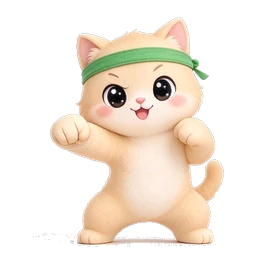
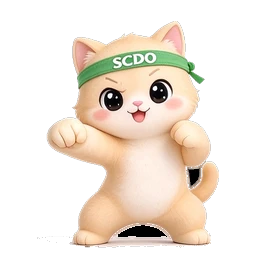
3.0.5: final AI小貓 frames — 27 (pose 1-9 with SCDO headband, full tai chi form 1-9, full Wing Chun set 1-9) in that play order; sync script takes all three sets; release-note line (華語 + English)

Changed region(s): [[0.1875, 0.0625, 0.875, 0.9688], [0.4688, 0.75, 0.5, 0.7812], [0.1562, 0.9062, 0.1875, 0.9375]]

diff --git a/src/js/i18n112.js b/src/js/i18n112.js
@@ -203,7 +203,7 @@ window.I18N112 = {
     aboutHashSrc_installer: '來源：錢包下載並驗證過的安裝檔', aboutHashSrc_manifest: '來源：已簽名的更新資訊', aboutHashSrc_published: '來源：下載頁的 .sha256 檔',
     aboutHashHow: '核對方法：Windows 在命令提示字元執行 certutil -hashfile 安裝檔名稱 SHA256，Mac 執行 shasum -a 256 安裝檔名稱，結果要和上面完全一樣。',
     about: '關於', version: '版本 {v}（2026-10-05）',
-    relNotes: [{"v": "3.0.5", "items": ["右下角的 AI小貓會動了：按鈕裡的小貓換成 68 像素的動畫小貓，每 3 秒換一個功夫、瑜伽或健身動作，換動作時會輕輕彈一下、淡入淡出，平常有呼吸起伏，腳下有淡淡的影子。按一下小貓會先換下一個動作，再打開和以前一樣的 AI小貓視窗。電腦設定成「減少動態效果」時，小貓固定一個動作不會動。", "每一頁最下面多留了空間，捲到底時最後的按鈕和文字不會被 AI小貓擋住。", "3.0.4 已經發布過，所以這一版用新的版本號 3.0.5。"]}, {"v": "3.0.4", "items": ["首頁換成新的樣子：最上面一張大卡片寫「今天賺了」和「一共賺了」；下面五張一樣大的白色卡片（Shard0 EVM、Shard1、Shard2、Shard3、Shard4），每張寫出狀態、餘額、同步進度條和其他資料，顯卡溫度用綠、橘、紅色圓點表示（說明寫在卡片上方）。AI小貓平常是右下角的黑色小膠囊，打開後是透明泡泡樣式的視窗，有六個常用動作：建立新地址、轉帳、開始／停止挖礦、修同步、查餘額、設定。", "所有金額用同一種寫法：最多 8 位小數，多的直接捨去（不會四捨五入變多），每三位加逗號，後面寫 SCDO。首頁卡片、帳戶頁、最底下的總餘額、確認視窗和交易紀錄都一樣，計算全部用整數，不會有誤差。", "確認視窗多了一行「合計（金額＋手續費）」。", "轉帳到自己的地址：五條鏈都可以，會先寫清楚「收款地址是你自己，這筆只會扣手續費」，要勾選才能繼續。轉到別的分片的地址和金額 0 仍然不能送出。", "交易紀錄改用 SCDO 區塊瀏覽器的資料，Shard0 EVM 和 Shard1–Shard4 都會列出別人轉進來的幣和挖礦獎勵，不再只有這台電腦送出的轉帳。", "設定 → 關於 和 AI小貓 加上說明與聯絡：官方頻道 t.me/SCDOLabor、社群群組 t.me/SCDOCommunity、客服 Email admin@apeccapital.org。", "這台電腦已經裝過 3.0.3，所以這一版用新的版本號 3.0.4。"]}, {"v": "3.0.3", "items": ["刪掉重複的內容：最底下只留一行「總餘額（Shard0–Shard4 全部合計）」（每個分片的餘額已經在自己的卡片上）；最上面的狀態列只留「今天賺了」和「一共賺了」（挖礦、速度、溫度、同步和節點已經在卡片上）；卡片名稱旁的「挖礦中／沒有在挖礦／正在同步」標籤也拿掉；首頁標題下重複 AI小貓 說明的那一行也拿掉。數字不會再疊在一起，也不會被 AI小貓擋住。", "白色字的綠色按鈕改成比較深的綠色，字比較清楚。", "3.0.2 的一個測試版本已經在這台電腦裝過，所以這一版用新的版本號 3.0.3。"]}, {"v": "3.0.2", "items": ["五條鏈地位相同，不分主次：0x 地址的那條鏈叫「Shard0 EVM」，例如「Shard0 EVM 帳戶」和「Shard0 EVM 顯卡」，跟 Shard1 到 Shard4 的名稱一樣排列。", "新的首頁：「帳戶（Shard0–Shard4）」五張一樣的卡片，依序是 Shard0 EVM、Shard1、Shard2、Shard3、Shard4。每張都寫出餘額、同步進度、挖礦速度、本機已挖到的區塊、顯卡、顯卡溫度、網路和收款地址（可以複製或顯示 QR 碼）。下面是最近交易，最底下固定顯示總餘額和每個分片的合計。", "拿掉分頁列和快捷按鈕列。要做事情請用上方選單（檔案、編輯、檢視、匯款、說明）或右下角的 AI小貓：建立新地址（Shard0–Shard4 任選，Ctrl+N）、匯入錢包（Ctrl+I）、備份（Ctrl+B）、開始挖礦（Ctrl+G）、停止挖礦（Ctrl+Shift+G）、轉帳（Ctrl+T）、匯款（Ctrl+P）。", "AI小貓改成 iPhone 風格的視窗，八個常用動作一按就做。轉帳、匯款和簽名一定先開確認視窗，寫清楚金額、收款人和哪條鏈，要你按「確認」才會送出；匯入私鑰只用隱藏輸入視窗，不會出現在對話或紀錄裡。按「先隱藏小貓」可以收起來，用「說明」→「顯示 AI小貓」叫回來。", "「設定」→「關於」會顯示這個版本的程式版本（commit）。", "會覆蓋安裝 3.0.1、3.0.0 和 2.0.12，帳戶和設定都會保留。"]}, {"v": "3.0.0", "items": ["Shard1–4 和 Shard0 EVM 可以用顯示卡和處理器一起挖，任意組合都可以。挖礦程式用比較低的優先順序執行，視窗才會保持順暢。名稱仍是 SCDO Wallet，會覆蓋安裝 2.0.12。", "每個帳戶卡片的「改名／隱藏／刪除」一列新增「挖礦」和「匯款」，點下去就帶入這個帳戶。", "最上面的狀態列只顯示資料：每一條鏈的同步進度、大約還要多久、挖礦速度、顯卡溫度（用顏色表示冷熱）、今天賺了多少、一共賺了多少、帳戶餘額，以及已連線的節點。按「?」可以看每一項的說明。下面那一列只有按鈕：開始挖礦、前往挖礦頁、匯款，以及全部停止（會先請你確認）。不再有重複的網路選單，Shard1–Shard4 帳戶分頁在最前面。", "新增 AI小貓：角落的小貓圖示，可在設定裡關閉。只在這台電腦上用規則幫忙，可以一鍵挖礦（顯示卡超過 85°C 會停下並說明）、同步停住或沒有同伴時重新啟動節點、回答餘額、引導備份帳戶檔案（不顯示種子），以及把「匯 100 給某人」填進表單。簽名和送出仍要你自己按確認。", "傳送和匯款合併成同一個「匯款」。填地址、已存名稱或匯款收款人，再填數量，錢包自動選路線：0x 或 Shard1–Shard4 地址走對應分片的鏈上轉帳，匯款收款人或法幣數量走匯款閘道。路線只用一行說明。要自己按確認才會簽名或送出。帳戶分頁仍看餘額；卡片和下面的按鈕列各留一個匯款按鈕。原本的傳送按鈕和匯款分頁已移除。"]}, {"v": "2.0.12", "items": ["新增「匯款」：首頁、分頁和選單都有入口；解鎖目前帳戶並簽名登入匯款閘道，只能看自己地址的帳本，別人的地址無法登入；不需要填寫任何身份資料"]}, {"v": "2.0.11", "items": ["挖礦頁文案：沒有顯示卡的黃框（可點「執行節點」開節點並登記獎勵）、已有本機節點、節點收益地址說明改寫"]}, {"v": "2.0.10", "items": ["切換華語時，系統選單列改為繁體中文", "傳送／挖礦地址與數量支援全形輸入，會自動轉成半形再檢查"]}, {"v": "2.0.9", "items": ["窄窗口下頂部列不再換行"]}, {"v": "2.0.8", "items": ["主題色改為淡綠色"]}, {"v": "2.0.7", "items": ["挖礦通知：第一個有效份額或挖到區塊、礦池出款到帳、挖礦速度一直是 0、挖礦不是由你停止、本機節點落後時，會跳出通知；每一種都可以在「設定」裡開關", "礦池模式的「挖礦」頁新增「礦池出款」：顯示未付餘額和出款門檻的進度、上次出款和交易", "「設定」新增更新管道：穩定版（預設）或搶先版", "「關於」顯示這個版本安裝檔的 SHA-256，可以和下載頁的 .sha256 檔核對"]}, {"v": "2.0.6", "items": ["升級或開啟錢包時立即顯示畫面和挖礦狀態，不再出現黑色視窗", "頂部列隨時顯示挖礦狀態：是否在挖礦、挖礦速度和礦池", "按視窗右上角 ✕ 只會縮到系統匣，挖礦繼續；要結束錢包，請在系統匣圖示選「結束」", "停止挖礦前會先請你確認", "更新完成後，視窗標題會顯示「已更新」", "檢查更新失敗時，會分清楚是網路問題還是更新資訊驗證沒有通過"]}, {"v": "2.0.5", "items": ["頂部設定按鈕旁新增「中文 / English」切換按鈕，一鍵切換語言", "挖礦：礦池地址預設填入 SCDO 官方礦池，也可以改成其他礦池", "更新說明改為按版本逐條列出，更容易閱讀", "中文介面中仍顯示英文的地方已改為繁體中文", "資產列表中的代幣說明改為「Shard0 EVM 代幣」"]}, {"v": "2.0.4", "items": ["可以在「設定」裡切換 English / 繁體中文，並會記住你的選擇", "挖礦頁和轉帳確認畫面也有繁體中文"]}, {"v": "2.0.3", "items": ["中文介面改為繁體中文", "帳戶備份存放在「文件\\ScdoWallet\\備份」資料夾"]}, {"v": "2.0.2", "items": ["「交易記錄」會顯示收到的轉帳", "連續傳送多筆轉帳不再失敗", "「全部傳送」不會留下零頭", "離線時會清楚提示", "金額不會被四捨五入放大", "開啟傳送視窗時自動更新可用餘額"]}, {"v": "2.0.1", "items": ["每次轉帳前都會顯示確認畫面：網路、收款地址、金額、手續費和合計", "收款地址可能有誤時會提醒你，無效地址無法傳送", "錢包更安全，外部連結只會在瀏覽器中開啟", "系統匣圖示可以停止挖礦或結束錢包", "挖礦頁新增顯示卡檢查、網路統計和礦池模式", "新的 SCDO 標誌"]}, {"v": "2.0.0", "items": ["正式版，更名為 SCDO 錢包（SCDO Wallet）", "帳戶、設定和挖礦資料全部保留"]}, {"v": "1.1.2 – 1.1.6", "items": ["介面重新設計：大字、按鈕更少", "可以切換到 SCDO Shard1–Shard4 網路", "帳戶可以改名、隱藏和刪除（刪除前自動備份）", "錢包可以自動檢查新版本", "關閉錢包時會先安全停止挖礦"]}],
+    relNotes: [{"v": "3.0.5", "items": ["右下角的 AI小貓會動了：按鈕裡的小貓換成 68 像素的動畫小貓，每 3 秒換一個功夫、瑜伽或健身動作，換動作時會輕輕彈一下、淡入淡出，平常有呼吸起伏，腳下有淡淡的影子。按一下小貓會先換下一個動作，再打開和以前一樣的 AI小貓視窗。電腦設定成「減少動態效果」時，小貓固定一個動作不會動。", "AI小貓現在會練功夫、瑜伽、健身，還會打一整套太極拳和一整套詠春拳，頭上綁著 SCDO 頭帶。", "每一頁最下面多留了空間，捲到底時最後的按鈕和文字不會被 AI小貓擋住。", "3.0.4 已經發布過，所以這一版用新的版本號 3.0.5。"]}, {"v": "3.0.4", "items": ["首頁換成新的樣子：最上面一張大卡片寫「今天賺了」和「一共賺了」；下面五張一樣大的白色卡片（Shard0 EVM、Shard1、Shard2、Shard3、Shard4），每張寫出狀態、餘額、同步進度條和其他資料，顯卡溫度用綠、橘、紅色圓點表示（說明寫在卡片上方）。AI小貓平常是右下角的黑色小膠囊，打開後是透明泡泡樣式的視窗，有六個常用動作：建立新地址、轉帳、開始／停止挖礦、修同步、查餘額、設定。", "所有金額用同一種寫法：最多 8 位小數，多的直接捨去（不會四捨五入變多），每三位加逗號，後面寫 SCDO。首頁卡片、帳戶頁、最底下的總餘額、確認視窗和交易紀錄都一樣，計算全部用整數，不會有誤差。", "確認視窗多了一行「合計（金額＋手續費）」。", "轉帳到自己的地址：五條鏈都可以，會先寫清楚「收款地址是你自己，這筆只會扣手續費」，要勾選才能繼續。轉到別的分片的地址和金額 0 仍然不能送出。", "交易紀錄改用 SCDO 區塊瀏覽器的資料，Shard0 EVM 和 Shard1–Shard4 都會列出別人轉進來的幣和挖礦獎勵，不再只有這台電腦送出的轉帳。", "設定 → 關於 和 AI小貓 加上說明與聯絡：官方頻道 t.me/SCDOLabor、社群群組 t.me/SCDOCommunity、客服 Email admin@apeccapital.org。", "這台電腦已經裝過 3.0.3，所以這一版用新的版本號 3.0.4。"]}, {"v": "3.0.3", "items": ["刪掉重複的內容：最底下只留一行「總餘額（Shard0–Shard4 全部合計）」（每個分片的餘額已經在自己的卡片上）；最上面的狀態列只留「今天賺了」和「一共賺了」（挖礦、速度、溫度、同步和節點已經在卡片上）；卡片名稱旁的「挖礦中／沒有在挖礦／正在同步」標籤也拿掉；首頁標題下重複 AI小貓 說明的那一行也拿掉。數字不會再疊在一起，也不會被 AI小貓擋住。", "白色字的綠色按鈕改成比較深的綠色，字比較清楚。", "3.0.2 的一個測試版本已經在這台電腦裝過，所以這一版用新的版本號 3.0.3。"]}, {"v": "3.0.2", "items": ["五條鏈地位相同，不分主次：0x 地址的那條鏈叫「Shard0 EVM」，例如「Shard0 EVM 帳戶」和「Shard0 EVM 顯卡」，跟 Shard1 到 Shard4 的名稱一樣排列。", "新的首頁：「帳戶（Shard0–Shard4）」五張一樣的卡片，依序是 Shard0 EVM、Shard1、Shard2、Shard3、Shard4。每張都寫出餘額、同步進度、挖礦速度、本機已挖到的區塊、顯卡、顯卡溫度、網路和收款地址（可以複製或顯示 QR 碼）。下面是最近交易，最底下固定顯示總餘額和每個分片的合計。", "拿掉分頁列和快捷按鈕列。要做事情請用上方選單（檔案、編輯、檢視、匯款、說明）或右下角的 AI小貓：建立新地址（Shard0–Shard4 任選，Ctrl+N）、匯入錢包（Ctrl+I）、備份（Ctrl+B）、開始挖礦（Ctrl+G）、停止挖礦（Ctrl+Shift+G）、轉帳（Ctrl+T）、匯款（Ctrl+P）。", "AI小貓改成 iPhone 風格的視窗，八個常用動作一按就做。轉帳、匯款和簽名一定先開確認視窗，寫清楚金額、收款人和哪條鏈，要你按「確認」才會送出；匯入私鑰只用隱藏輸入視窗，不會出現在對話或紀錄裡。按「先隱藏小貓」可以收起來，用「說明」→「顯示 AI小貓」叫回來。", "「設定」→「關於」會顯示這個版本的程式版本（commit）。", "會覆蓋安裝 3.0.1、3.0.0 和 2.0.12，帳戶和設定都會保留。"]}, {"v": "3.0.0", "items": ["Shard1–4 和 Shard0 EVM 可以用顯示卡和處理器一起挖，任意組合都可以。挖礦程式用比較低的優先順序執行，視窗才會保持順暢。名稱仍是 SCDO Wallet，會覆蓋安裝 2.0.12。", "每個帳戶卡片的「改名／隱藏／刪除」一列新增「挖礦」和「匯款」，點下去就帶入這個帳戶。", "最上面的狀態列只顯示資料：每一條鏈的同步進度、大約還要多久、挖礦速度、顯卡溫度（用顏色表示冷熱）、今天賺了多少、一共賺了多少、帳戶餘額，以及已連線的節點。按「?」可以看每一項的說明。下面那一列只有按鈕：開始挖礦、前往挖礦頁、匯款，以及全部停止（會先請你確認）。不再有重複的網路選單，Shard1–Shard4 帳戶分頁在最前面。", "新增 AI小貓：角落的小貓圖示，可在設定裡關閉。只在這台電腦上用規則幫忙，可以一鍵挖礦（顯示卡超過 85°C 會停下並說明）、同步停住或沒有同伴時重新啟動節點、回答餘額、引導備份帳戶檔案（不顯示種子），以及把「匯 100 給某人」填進表單。簽名和送出仍要你自己按確認。", "傳送和匯款合併成同一個「匯款」。填地址、已存名稱或匯款收款人，再填數量，錢包自動選路線：0x 或 Shard1–Shard4 地址走對應分片的鏈上轉帳，匯款收款人或法幣數量走匯款閘道。路線只用一行說明。要自己按確認才會簽名或送出。帳戶分頁仍看餘額；卡片和下面的按鈕列各留一個匯款按鈕。原本的傳送按鈕和匯款分頁已移除。"]}, {"v": "2.0.12", "items": ["新增「匯款」：首頁、分頁和選單都有入口；解鎖目前帳戶並簽名登入匯款閘道，只能看自己地址的帳本，別人的地址無法登入；不需要填寫任何身份資料"]}, {"v": "2.0.11", "items": ["挖礦頁文案：沒有顯示卡的黃框（可點「執行節點」開節點並登記獎勵）、已有本機節點、節點收益地址說明改寫"]}, {"v": "2.0.10", "items": ["切換華語時，系統選單列改為繁體中文", "傳送／挖礦地址與數量支援全形輸入，會自動轉成半形再檢查"]}, {"v": "2.0.9", "items": ["窄窗口下頂部列不再換行"]}, {"v": "2.0.8", "items": ["主題色改為淡綠色"]}, {"v": "2.0.7", "items": ["挖礦通知：第一個有效份額或挖到區塊、礦池出款到帳、挖礦速度一直是 0、挖礦不是由你停止、本機節點落後時，會跳出通知；每一種都可以在「設定」裡開關", "礦池模式的「挖礦」頁新增「礦池出款」：顯示未付餘額和出款門檻的進度、上次出款和交易", "「設定」新增更新管道：穩定版（預設）或搶先版", "「關於」顯示這個版本安裝檔的 SHA-256，可以和下載頁的 .sha256 檔核對"]}, {"v": "2.0.6", "items": ["升級或開啟錢包時立即顯示畫面和挖礦狀態，不再出現黑色視窗", "頂部列隨時顯示挖礦狀態：是否在挖礦、挖礦速度和礦池", "按視窗右上角 ✕ 只會縮到系統匣，挖礦繼續；要結束錢包，請在系統匣圖示選「結束」", "停止挖礦前會先請你確認", "更新完成後，視窗標題會顯示「已更新」", "檢查更新失敗時，會分清楚是網路問題還是更新資訊驗證沒有通過"]}, {"v": "2.0.5", "items": ["頂部設定按鈕旁新增「中文 / English」切換按鈕，一鍵切換語言", "挖礦：礦池地址預設填入 SCDO 官方礦池，也可以改成其他礦池", "更新說明改為按版本逐條列出，更容易閱讀", "中文介面中仍顯示英文的地方已改為繁體中文", "資產列表中的代幣說明改為「Shard0 EVM 代幣」"]}, {"v": "2.0.4", "items": ["可以在「設定」裡切換 English / 繁體中文，並會記住你的選擇", "挖礦頁和轉帳確認畫面也有繁體中文"]}, {"v": "2.0.3", "items": ["中文介面改為繁體中文", "帳戶備份存放在「文件\\ScdoWallet\\備份」資料夾"]}, {"v": "2.0.2", "items": ["「交易記錄」會顯示收到的轉帳", "連續傳送多筆轉帳不再失敗", "「全部傳送」不會留下零頭", "離線時會清楚提示", "金額不會被四捨五入放大", "開啟傳送視窗時自動更新可用餘額"]}, {"v": "2.0.1", "items": ["每次轉帳前都會顯示確認畫面：網路、收款地址、金額、手續費和合計", "收款地址可能有誤時會提醒你，無效地址無法傳送", "錢包更安全，外部連結只會在瀏覽器中開啟", "系統匣圖示可以停止挖礦或結束錢包", "挖礦頁新增顯示卡檢查、網路統計和礦池模式", "新的 SCDO 標誌"]}, {"v": "2.0.0", "items": ["正式版，更名為 SCDO 錢包（SCDO Wallet）", "帳戶、設定和挖礦資料全部保留"]}, {"v": "1.1.2 – 1.1.6", "items": ["介面重新設計：大字、按鈕更少", "可以切換到 SCDO Shard1–Shard4 網路", "帳戶可以改名、隱藏和刪除（刪除前自動備份）", "錢包可以自動檢查新版本", "關閉錢包時會先安全停止挖礦"]}],
     earlierVersions: "更早版本",
     // mining
     mineTitle: '挖礦', detecting: '正在檢測顯示卡…',
@@ -539,7 +539,7 @@ window.I18N112 = {
     aboutHashSrc_installer: 'Source: the installer the wallet downloaded and verified', aboutHashSrc_manifest: 'Source: the signed update information', aboutHashSrc_published: 'Source: the .sha256 file on the download page',
     aboutHashHow: 'To check: on Windows run certutil -hashfile <installer file> SHA256 in Command Prompt, on a Mac run shasum -a 256 <installer file>; the result must match the value above exactly.',
     about: 'About', version: 'Version {v} (2026-10-05)',
-    relNotes: [{"v": "3.0.5", "items": ["The cat assistant at the bottom right now moves: the picture in its button is a 68-pixel animated cat that changes to a new kung fu, yoga or fitness pose every 3 seconds, with a small pop and a crossfade between poses, a gentle breathing motion and a soft shadow under its feet. Clicking the cat first shows the next pose and then opens the same cat window as before. If the computer is set to reduce motion, the cat keeps one still pose.", "Every page has extra space at the bottom, so when you scroll to the end the last buttons and text are never covered by the cat assistant.", "3.0.4 has already been released, so this build has its own version number, 3.0.5."]}, {"v": "3.0.4", "items": ["Home has a new look: one large card at the top shows today's and total earnings; below it five identical white cards (Shard0 EVM, Shard1, Shard2, Shard3, Shard4) show the status, balance, a sync progress bar and the other details, and the graphics-card temperature is a green, orange or red dot (explained above the cards). The cat assistant is a small black capsule at the bottom right; it opens a clear bubble-style window with six common actions: create a new address, transfer, start or stop mining, fix sync, check balance and settings.", "Every amount uses one format: up to 8 decimals, extra digits are cut (never rounded up), a comma every three digits, followed by SCDO. Home cards, the Accounts page, the total at the bottom, the confirmation window and the transaction list all match, and the sums use whole-number maths, so nothing drifts.", "The confirmation window has a new Total (amount + fee) line.", "Transfers to your own address are allowed on all five chains. The wallet first says the receiving address is your own and that only the fee is spent, and you must tick a box to continue. Transfers to an address on another shard and zero amounts are still blocked.", "The transaction list now reads the SCDO explorer for Shard0 EVM and Shard1–Shard4, so coins sent to you and mining rewards show up, not only transfers sent from this computer.", "Settings → About and the cat assistant list help and contact: the official channel t.me/SCDOLabor, the community group t.me/SCDOCommunity and the support email admin@apeccapital.org.", "3.0.3 was already installed on this computer, so this build has its own version number, 3.0.4."]}, {"v": "3.0.3", "items": ["Removed repeated information: the bar at the bottom keeps one line, Total balance (Shard0–Shard4 together), because each shard's balance is already on its own card. The top status bar keeps only today's and total earnings, because mining, speed, temperature, sync and nodes are already on the cards. The mining / not mining / syncing badges next to each card name and the line under the Home title that repeated the cat assistant's label are gone too. Numbers never overlap and the cat assistant never covers them.", "Green buttons with white text use a darker green so the text is easier to read.", "A 3.0.2 test build was already installed on this computer, so this build has its own version number, 3.0.3."]}, {"v": "3.0.2", "items": ["All five chains are equal. The chain with 0x addresses is called Shard0 EVM, for example \"Shard0 EVM accounts\" and \"Shard0 EVM graphics card\", named like Shard1 to Shard4.", "New Home: \"Accounts (Shard0–Shard4)\" shows five identical cards in order: Shard0 EVM, Shard1, Shard2, Shard3, Shard4. Each card spells out the balance, sync progress, mining speed, blocks found on this computer, graphics card, graphics card temperature, network and receiving address (copy it or show a QR code). Recent transactions are below, and the total balance with a total for each shard stays at the bottom.", "The tab bar and the quick-button row are gone. Use the menu at the top (File, Edit, View, Remittance, Help) or the cat assistant at the bottom right: create a new address on any shard, Shard0 EVM to Shard4 (Ctrl+N), import a wallet (Ctrl+I), back up (Ctrl+B), start mining (Ctrl+G), stop mining (Ctrl+Shift+G), transfer (Ctrl+T), remittance (Ctrl+P).", "The cat assistant now opens an iPhone-style window with eight common actions. Transfers, remittances and signing always open a confirmation window first with the amount, the recipient and the chain written out, and nothing is sent until you press confirm. A private key is only typed into a hidden input window and never appears in the chat or in logs. You can hide the cat for now and bring it back from the Help menu.", "Settings → About shows the build commit of this version.", "Installs over 3.0.1, 3.0.0 and 2.0.12 and keeps your accounts and settings."]}, {"v": "3.0.0", "items": ["Shard1–4 and Shard0 EVM can mine together, using the graphics card and the processor in any combination. The mining programs run at a lower priority so the window stays smooth. The name stays SCDO Wallet and this release installs over 2.0.12.", "Each account card adds Mining and Send beside Rename, Hide and Delete. The click opens that feature with this account already selected.", "The top status bar only shows information: each chain's sync, time left, mining speed, graphics-card temperature colour, today's earnings, total earnings, the account balance, and connected nodes. The ? explains each item. The row below has only buttons: Start mining, Open the mining page, Send, and Stop all, which asks you to confirm first. There is no separate network menu, and the Shard1–Shard4 accounts tab is first.", "AI小貓 sits in a corner and can be turned off in Settings. It uses on-device rules only: one-tap mining (it stops the graphics card above 85°C and says so), a node restart when sync stalls or there are no peers, balance answers, a keyfile backup walkthrough that never shows a seed, and filling in a form from a short sentence typed in Chinese, such as \"send 100 to someone\". It never signs or sends; you confirm that yourself.", "Sending and remittance are now one entry: Send. Type an address, a saved name, or a remit payee plus an amount, and the wallet picks the route: a 0x or Shard1–Shard4 address is an on-chain transfer on that shard, and a remit payee or a fiat amount uses the remit gateway. The route is one line. Nothing is signed or sent until you press confirm. Account tabs still show balances. Each card and the button row below keep a single Send button. The separate send buttons and the remit tab are removed."]}, {"v": "2.0.12", "items": ["New Remittance entry (now called Send) on Home, the tab bar and the menu; unlock the current account and sign in to the remittance gateway; you only see your own address's ledger and another address cannot sign in; no identity form"]}, {"v": "2.0.11", "items": ["Mining page copy: yellow card when there is no graphics card (tap Run a node to start + register rewards), external-node, and node reward-address messages"]}, {"v": "2.0.10", "items": ["When you switch to 華語, the menu bar becomes Traditional Chinese", "Send/mining address and amount: full-width characters are normalised to half-width before checks"]}, {"v": "2.0.9", "items": ["Top bar no longer wraps in a narrow window"]}, {"v": "2.0.8", "items": ["Main colour is now light green"]}, {"v": "2.0.7", "items": ["Mining notifications: first accepted share or block found, pool payout received, hashrate stuck at 0, mining stopped by something other than you, local node behind; each one can be turned off in Settings", "Pool mode: the Mining tab shows pool payouts - unpaid balance against the payout minimum, the last payout and its transaction", "Settings: choose the update channel - Stable (default) or Beta", "About shows the SHA-256 of this version's installer, to compare with the .sha256 file on the download page"]}, {"v": "2.0.6", "items": ["The window and the mining status show up right away after an update or at start - no more black window", "The top bar always shows mining: on or off, hashrate and pool", "The ✕ at the top right hides the wallet to the tray and mining keeps running; to quit, choose Quit on the tray icon", "Stopping mining now asks you to confirm first", "After an update the window title says it was updated", "When an update check fails, the message tells you whether it was the connection or the update information that failed its check"]}, {"v": "2.0.5", "items": ["New language button (Chinese / English) next to the settings button at the top: switch the language with one click", "Mining: the official SCDO pool is filled in by default; you can change it to another pool", "Release notes are now listed by version, one change per line", "Places in the Chinese interface that still showed English are now translated", "Tokens in the asset list are now labelled \"Shard0 EVM token\""]}, {"v": "2.0.4", "items": ["Switch the language between English and 繁體中文 in Settings; your choice is remembered", "The Mining tab and the transfer confirmation are translated too"]}, {"v": "2.0.3", "items": ["The Chinese interface is now Traditional Chinese", "Account backups are saved in the Documents\\ScdoWallet\\備份 folder"]}, {"v": "2.0.2", "items": ["Activity now lists incoming transfers", "Several transfers sent one after another no longer fail", "Send all leaves nothing behind", "Clear message when you are offline", "Amounts are never rounded up", "The available balance refreshes when the send window opens"]}, {"v": "2.0.1", "items": ["Every transfer shows a confirm screen first: network, recipient, amount, fee and total", "Warnings for addresses that may be wrong; invalid addresses are blocked", "A safer wallet: outside links open only in your browser", "Tray icon to stop mining or quit the wallet", "Mining tab: graphics card check, network stats and pool mode", "New SCDO logo"]}, {"v": "2.0.0", "items": ["Release version, renamed to SCDO Wallet", "Accounts, settings and mining data are all kept"]}, {"v": "1.1.2 – 1.1.6", "items": ["Redesigned interface: big text, fewer buttons", "Switch to the SCDO Shard1–Shard4 networks", "Accounts can be renamed, hidden and deleted (backed up first)", "The wallet checks for new versions", "Closing the wallet stops mining safely first"]}],
+    relNotes: [{"v": "3.0.5", "items": ["The cat assistant at the bottom right now moves: the picture in its button is a 68-pixel animated cat that changes to a new kung fu, yoga or fitness pose every 3 seconds, with a small pop and a crossfade between poses, a gentle breathing motion and a soft shadow under its feet. Clicking the cat first shows the next pose and then opens the same cat window as before. If the computer is set to reduce motion, the cat keeps one still pose.", "The cat assistant now practises kung fu, yoga and fitness, plus a full tai chi set and a full Wing Chun set, wearing an SCDO headband.", "Every page has extra space at the bottom, so when you scroll to the end the last buttons and text are never covered by the cat assistant.", "3.0.4 has already been released, so this build has its own version number, 3.0.5."]}, {"v": "3.0.4", "items": ["Home has a new look: one large card at the top shows today's and total earnings; below it five identical white cards (Shard0 EVM, Shard1, Shard2, Shard3, Shard4) show the status, balance, a sync progress bar and the other details, and the graphics-card temperature is a green, orange or red dot (explained above the cards). The cat assistant is a small black capsule at the bottom right; it opens a clear bubble-style window with six common actions: create a new address, transfer, start or stop mining, fix sync, check balance and settings.", "Every amount uses one format: up to 8 decimals, extra digits are cut (never rounded up), a comma every three digits, followed by SCDO. Home cards, the Accounts page, the total at the bottom, the confirmation window and the transaction list all match, and the sums use whole-number maths, so nothing drifts.", "The confirmation window has a new Total (amount + fee) line.", "Transfers to your own address are allowed on all five chains. The wallet first says the receiving address is your own and that only the fee is spent, and you must tick a box to continue. Transfers to an address on another shard and zero amounts are still blocked.", "The transaction list now reads the SCDO explorer for Shard0 EVM and Shard1–Shard4, so coins sent to you and mining rewards show up, not only transfers sent from this computer.", "Settings → About and the cat assistant list help and contact: the official channel t.me/SCDOLabor, the community group t.me/SCDOCommunity and the support email admin@apeccapital.org.", "3.0.3 was already installed on this computer, so this build has its own version number, 3.0.4."]}, {"v": "3.0.3", "items": ["Removed repeated information: the bar at the bottom keeps one line, Total balance (Shard0–Shard4 together), because each shard's balance is already on its own card. The top status bar keeps only today's and total earnings, because mining, speed, temperature, sync and nodes are already on the cards. The mining / not mining / syncing badges next to each card name and the line under the Home title that repeated the cat assistant's label are gone too. Numbers never overlap and the cat assistant never covers them.", "Green buttons with white text use a darker green so the text is easier to read.", "A 3.0.2 test build was already installed on this computer, so this build has its own version number, 3.0.3."]}, {"v": "3.0.2", "items": ["All five chains are equal. The chain with 0x addresses is called Shard0 EVM, for example \"Shard0 EVM accounts\" and \"Shard0 EVM graphics card\", named like Shard1 to Shard4.", "New Home: \"Accounts (Shard0–Shard4)\" shows five identical cards in order: Shard0 EVM, Shard1, Shard2, Shard3, Shard4. Each card spells out the balance, sync progress, mining speed, blocks found on this computer, graphics card, graphics card temperature, network and receiving address (copy it or show a QR code). Recent transactions are below, and the total balance with a total for each shard stays at the bottom.", "The tab bar and the quick-button row are gone. Use the menu at the top (File, Edit, View, Remittance, Help) or the cat assistant at the bottom right: create a new address on any shard, Shard0 EVM to Shard4 (Ctrl+N), import a wallet (Ctrl+I), back up (Ctrl+B), start mining (Ctrl+G), stop mining (Ctrl+Shift+G), transfer (Ctrl+T), remittance (Ctrl+P).", "The cat assistant now opens an iPhone-style window with eight common actions. Transfers, remittances and signing always open a confirmation window first with the amount, the recipient and the chain written out, and nothing is sent until you press confirm. A private key is only typed into a hidden input window and never appears in the chat or in logs. You can hide the cat for now and bring it back from the Help menu.", "Settings → About shows the build commit of this version.", "Installs over 3.0.1, 3.0.0 and 2.0.12 and keeps your accounts and settings."]}, {"v": "3.0.0", "items": ["Shard1–4 and Shard0 EVM can mine together, using the graphics card and the processor in any combination. The mining programs run at a lower priority so the window stays smooth. The name stays SCDO Wallet and this release installs over 2.0.12.", "Each account card adds Mining and Send beside Rename, Hide and Delete. The click opens that feature with this account already selected.", "The top status bar only shows information: each chain's sync, time left, mining speed, graphics-card temperature colour, today's earnings, total earnings, the account balance, and connected nodes. The ? explains each item. The row below has only buttons: Start mining, Open the mining page, Send, and Stop all, which asks you to confirm first. There is no separate network menu, and the Shard1–Shard4 accounts tab is first.", "AI小貓 sits in a corner and can be turned off in Settings. It uses on-device rules only: one-tap mining (it stops the graphics card above 85°C and says so), a node restart when sync stalls or there are no peers, balance answers, a keyfile backup walkthrough that never shows a seed, and filling in a form from a short sentence typed in Chinese, such as \"send 100 to someone\". It never signs or sends; you confirm that yourself.", "Sending and remittance are now one entry: Send. Type an address, a saved name, or a remit payee plus an amount, and the wallet picks the route: a 0x or Shard1–Shard4 address is an on-chain transfer on that shard, and a remit payee or a fiat amount uses the remit gateway. The route is one line. Nothing is signed or sent until you press confirm. Account tabs still show balances. Each card and the button row below keep a single Send button. The separate send buttons and the remit tab are removed."]}, {"v": "2.0.12", "items": ["New Remittance entry (now called Send) on Home, the tab bar and the menu; unlock the current account and sign in to the remittance gateway; you only see your own address's ledger and another address cannot sign in; no identity form"]}, {"v": "2.0.11", "items": ["Mining page copy: yellow card when there is no graphics card (tap Run a node to start + register rewards), external-node, and node reward-address messages"]}, {"v": "2.0.10", "items": ["When you switch to 華語, the menu bar becomes Traditional Chinese", "Send/mining address and amount: full-width characters are normalised to half-width before checks"]}, {"v": "2.0.9", "items": ["Top bar no longer wraps in a narrow window"]}, {"v": "2.0.8", "items": ["Main colour is now light green"]}, {"v": "2.0.7", "items": ["Mining notifications: first accepted share or block found, pool payout received, hashrate stuck at 0, mining stopped by something other than you, local node behind; each one can be turned off in Settings", "Pool mode: the Mining tab shows pool payouts - unpaid balance against the payout minimum, the last payout and its transaction", "Settings: choose the update channel - Stable (default) or Beta", "About shows the SHA-256 of this version's installer, to compare with the .sha256 file on the download page"]}, {"v": "2.0.6", "items": ["The window and the mining status show up right away after an update or at start - no more black window", "The top bar always shows mining: on or off, hashrate and pool", "The ✕ at the top right hides the wallet to the tray and mining keeps running; to quit, choose Quit on the tray icon", "Stopping mining now asks you to confirm first", "After an update the window title says it was updated", "When an update check fails, the message tells you whether it was the connection or the update information that failed its check"]}, {"v": "2.0.5", "items": ["New language button (Chinese / English) next to the settings button at the top: switch the language with one click", "Mining: the official SCDO pool is filled in by default; you can change it to another pool", "Release notes are now listed by version, one change per line", "Places in the Chinese interface that still showed English are now translated", "Tokens in the asset list are now labelled \"Shard0 EVM token\""]}, {"v": "2.0.4", "items": ["Switch the language between English and 繁體中文 in Settings; your choice is remembered", "The Mining tab and the transfer confirmation are translated too"]}, {"v": "2.0.3", "items": ["The Chinese interface is now Traditional Chinese", "Account backups are saved in the Documents\\ScdoWallet\\備份 folder"]}, {"v": "2.0.2", "items": ["Activity now lists incoming transfers", "Several transfers sent one after another no longer fail", "Send all leaves nothing behind", "Clear message when you are offline", "Amounts are never rounded up", "The available balance refreshes when the send window opens"]}, {"v": "2.0.1", "items": ["Every transfer shows a confirm screen first: network, recipient, amount, fee and total", "Warnings for addresses that may be wrong; invalid addresses are blocked", "A safer wallet: outside links open only in your browser", "Tray icon to stop mining or quit the wallet", "Mining tab: graphics card check, network stats and pool mode", "New SCDO logo"]}, {"v": "2.0.0", "items": ["Release version, renamed to SCDO Wallet", "Accounts, settings and mining data are all kept"]}, {"v": "1.1.2 – 1.1.6", "items": ["Redesigned interface: big text, fewer buttons", "Switch to the SCDO Shard1–Shard4 networks", "Accounts can be renamed, hidden and deleted (backed up first)", "The wallet checks for new versions", "Closing the wallet stops mining safely first"]}],
     earlierVersions: "Earlier versions",
     mineTitle: 'Mining', detecting: 'Checking the graphics card…',
     gpuYes: 'NVIDIA graphics card detected', gpuName: 'Graphics card: {n}', rewardAddr: 'Block reward address (Shard0 EVM receiving address, starts with 0x)', noRewardAddr: 'No Shard0 EVM receiving address yet: enter the password under "Shard0 EVM accounts" on the Accounts tab to show one.',

diff --git a/scripts/sync-cat-poses.js b/scripts/sync-cat-poses.js
@@ -1,16 +1,20 @@
 // 3.0.5: copy AI小貓 pose frames into assets/cat/ and rewrite the frame list in src/js/catPoses.js.
-//   node scripts/sync-cat-poses.js /path/to/frames      (takes pose-<N>.webp, sorted by N; sub-folders such as rejected/ are ignored)
-// Old pose-*.webp files in assets/cat/ that are not in the new set are removed so the list and the folder always match.
+//   node scripts/sync-cat-poses.js /path/to/frames      (takes <set>-<N>.webp for each set in SETS, in SETS order, each sorted by N;
+//   sub-folders such as rejected/ and old-v1/ are ignored). Play order = pose 1→N, taichi 1→N (one complete form), wingchun 1→N, loop.
+// Old frame files in assets/cat/ that are not in the new set are removed so the list and the folder always match.
 'use strict'
 const fs = require('fs'); const path = require('path')
 const src = process.argv[2]
 if (!src || !fs.existsSync(src)) { console.error('usage: node scripts/sync-cat-poses.js <frames dir>'); process.exit(1) }
 const root = path.join(__dirname, '..'); const dst = path.join(root, 'assets', 'cat'); const list = path.join(root, 'src', 'js', 'catPoses.js')
-const frames = fs.readdirSync(src).filter(f => /^pose-\d+\.webp$/.test(f) && fs.statSync(path.join(src, f)).isFile())
-  .sort((a, b) => parseInt(a.slice(5), 10) - parseInt(b.slice(5), 10))
-if (!frames.length) { console.error('no pose-<N>.webp in ' + src); process.exit(1) }
+const SETS = ['pose', 'taichi', 'wingchun']
+const FRAME_RE = new RegExp('^(' + SETS.join('|') + ')-(\\d+)\\.webp$')
+const num = f => parseInt(f.match(FRAME_RE)[2], 10)
+const all = fs.readdirSync(src).filter(f => FRAME_RE.test(f) && fs.statSync(path.join(src, f)).isFile())
+const frames = [].concat(...SETS.map(set => all.filter(f => f.match(FRAME_RE)[1] === set).sort((a, b) => num(a) - num(b))))
+if (!frames.length) { console.error('no <set>-<N>.webp in ' + src); process.exit(1) }
 fs.mkdirSync(dst, { recursive: true })
-for (const f of fs.readdirSync(dst)) if (/^pose-\d+\.webp$/.test(f) && !frames.includes(f)) fs.unlinkSync(path.join(dst, f))
+for (const f of fs.readdirSync(dst)) if (FRAME_RE.test(f) && !frames.includes(f)) fs.unlinkSync(path.join(dst, f))
 for (const f of frames) fs.copyFileSync(path.join(src, f), path.join(dst, f))
 const js = fs.readFileSync(list, 'utf8')
 const body = frames.map(f => "    '" + f + "'").join(',\n')

diff --git a/src/js/catPoses.js b/src/js/catPoses.js
@@ -1,6 +1,7 @@
-// 3.0.5: AI小貓 animated launcher frames (kung fu / yoga / fitness). Data-driven: the launcher shows every frame listed
-// here, in order, one every holdMs (crossfade fadeMs, pop popScale). To swap the art, drop the new pose-N.webp files into assets/cat/ and list them below
-// (or run `node scripts/sync-cat-poses.js <frames dir>`, which copies pose-*.webp and rewrites this list).
+// 3.0.5: AI小貓 animated launcher frames (kung fu / yoga / fitness poses, a full tai chi form, a full Wing Chun set). Data-driven: the launcher shows every frame listed
+// here, in order, one every holdMs (crossfade fadeMs, pop popScale). Play order: pose 1→9, taichi 1→9 (keep
+// the form's order), wingchun 1→9, then loop. To swap the art, drop new <set>-N.webp files into assets/cat/ and list them
+// below (or run `node scripts/sync-cat-poses.js <frames dir>`, which copies pose-/taichi-/wingchun-*.webp and rewrites this list).
 // Frames: 256×256 transparent WebP, feet aligned. A listed frame that fails to load is skipped, never shown broken.
 // reducedMotionFrame is the single static frame used with prefers-reduced-motion (falls back to the first frame).
 window.SCDOCatPoses = Object.freeze({
@@ -19,7 +20,26 @@ window.SCDOCatPoses = Object.freeze({
     'pose-5.webp',
     'pose-6.webp',
     'pose-7.webp',
-    'pose-8.webp'
+    'pose-8.webp',
+    'pose-9.webp',
+    'taichi-1.webp',
+    'taichi-2.webp',
+    'taichi-3.webp',
+    'taichi-4.webp',
+    'taichi-5.webp',
+    'taichi-6.webp',
+    'taichi-7.webp',
+    'taichi-8.webp',
+    'taichi-9.webp',
+    'wingchun-1.webp',
+    'wingchun-2.webp',
+    'wingchun-3.webp',
+    'wingchun-4.webp',
+    'wingchun-5.webp',
+    'wingchun-6.webp',
+    'wingchun-7.webp',
+    'wingchun-8.webp',
+    'wingchun-9.webp'
     // END FRAMES
   ])
 })

diff --git a/test/cat-poses.js b/test/cat-poses.js
@@ -6,6 +6,9 @@ const box = { window: {} }; vm.runInNewContext(fs.readFileSync(path.join(root, '
 const c = box.window.SCDOCatPoses
 assert.ok(c && Array.isArray(c.frames) && c.frames.length >= 1, 'frame list')
 assert.strictEqual(new Set(c.frames).size, c.frames.length, 'duplicate frames')
+const want = [].concat(...['pose', 'taichi', 'wingchun'].map(s => [1, 2, 3, 4, 5, 6, 7, 8, 9].map(n => s + '-' + n + '.webp')))
+assert.deepStrictEqual([...c.frames], want, 'play order: pose 1-9, taichi 1-9, wingchun 1-9')
+assert.strictEqual(c.reducedMotionFrame, 'pose-6.webp')
 assert.strictEqual(c.holdMs, 3000); assert.strictEqual(c.fadeMs, 600); assert.ok(c.popScale > 1 && c.popScale <= 1.06)
 assert.ok(c.frames.includes(c.reducedMotionFrame), 'reduced-motion frame is listed')
 for (const f of c.frames) {
